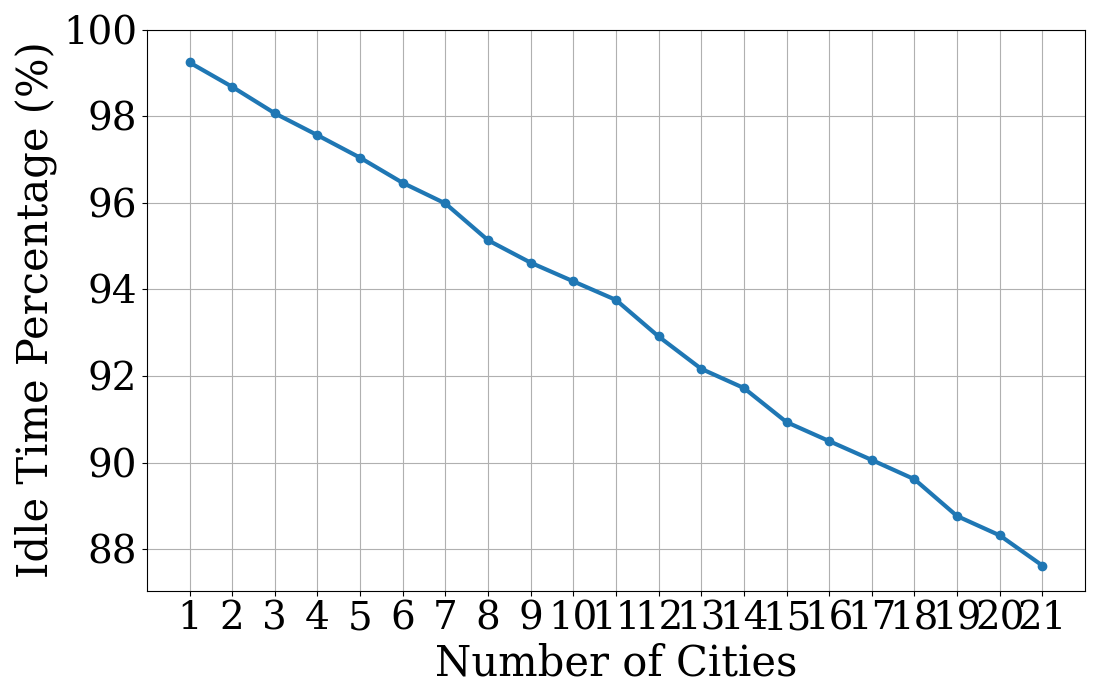
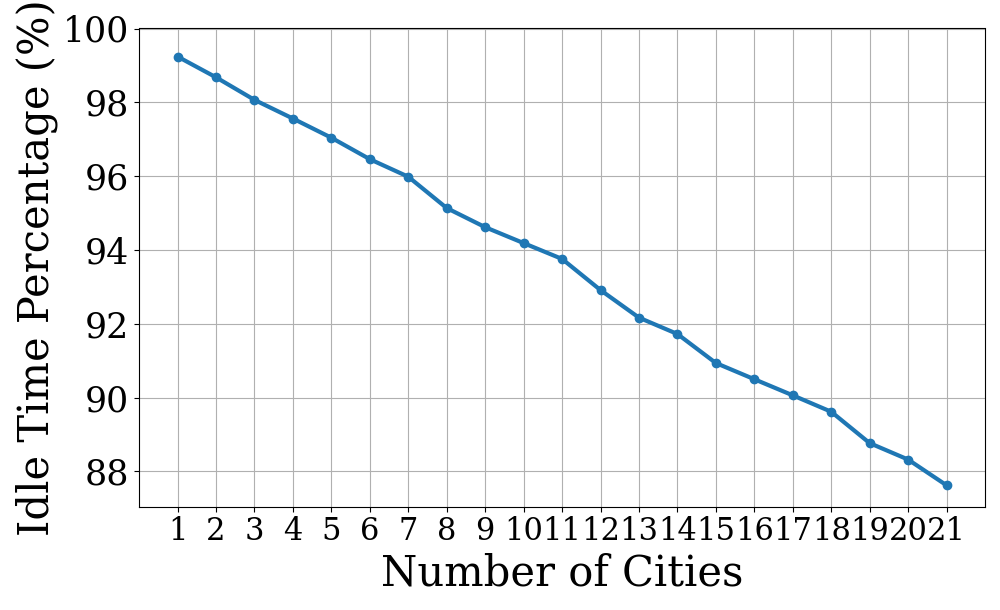
change plots for paper

Changed region(s): [[0.0, 0.0, 0.992, 0.9656]]

diff --git a/Simulation_SY/plot_gap_duration_difference_plus1.py b/Simulation_SY/plot_gap_duration_difference_plus1.py
@@ -46,6 +46,12 @@ def analyze_file_shorter(folder_path, filename, population):
 
     return durations
 
+def format_duration(seconds):
+    hours = int(seconds // 3600)
+    minutes = int((seconds % 3600) // 60)
+    seconds = int(seconds % 60)
+    return f"{hours:02}:{minutes:02}:{seconds:02}"
+
 def format_minutes(minutes):
     hours = int(minutes // 60)
     minutes = int(minutes % 60)
@@ -87,9 +93,10 @@ def main():
 
     results = []
     errors = []
+    min_max_values = []
     colors = plot_config.experiment_colors[:len(files_info)]
     hatches = plot_config.hatches[:len(files_info)]
-    annotation_fontsize = plot_config.annotation_fontsize
+    annotation_fontsize = 24
 
     total_population = sum(population for _, population in ground_stations)
     num_cities = len(ground_stations)
@@ -105,30 +112,35 @@ def main():
         if total_durations:
             num_durations = len(total_durations)
             population_weighted_avg_diff = sum(total_durations) / (total_population * num_durations / num_cities)
-            std_deviation = np.std(total_durations) / total_population
+            min_difference = np.min(total_durations)
+            max_difference = np.max(total_durations)
             results.append(population_weighted_avg_diff)
-            errors.append(std_deviation)
-            print(f"Results for {label}: Avg={population_weighted_avg_diff}, Std Dev={std_deviation}")
+            errors.append([abs(population_weighted_avg_diff - min_difference / (total_population / num_cities)), 
+                           abs(max_difference / (total_population / num_cities) - population_weighted_avg_diff)])
+            min_max_values.append((min_difference, max_difference))
+            print(f"Results for {label}: Avg={population_weighted_avg_diff}, Min={min_difference}, Max={max_difference}")
         else:
             results.append(0)
-            errors.append(0)
+            errors.append([0, 0])
+            min_max_values.append((0, 0))
             print(f"No durations found for file prefix: {file_prefix}")
 
-    fig, ax = plt.subplots()
+    fig, ax = plt.subplots(figsize=(10,6))
     labels = [label for _, label in files_info]
-    bars = ax.bar(labels, results, yerr=errors, capsize=5, color=colors, hatch=hatches, width = 0.5)
-    ax.set_ylabel('Difference in Coverage \n (min)')
-    ax.set_xlabel('Base Number of Satellites (1, 100, 500)')
-    # ax.set_title('Average Time Difference From Original Gaps')
+    ax.bar(labels, results, yerr=np.array(errors).T, capsize=5, color=colors, hatch=hatches, width = 0.7)
+    ax.set_ylabel('Range of \n Coverage Increase \n (min)')
+    ax.set_xlabel('Base Number of Satellites + 1')
+    ax.set_ylim(0, 300) 
 
-    for bar in bars:
-        height = bar.get_height()
-        formatted_label = format_minutes(height)
-        # ax.text(bar.get_x() + bar.get_width() / 2, height + errors[bars.index(bar)], formatted_label, ha='center', va='bottom', fontsize=annotation_fontsize)
-
+    for i, (min_val, max_val) in enumerate(min_max_values):
+        bar = ax.patches[i]
+        bar_height = bar.get_height()
+        max_val_seconds = max_val / (total_population / num_cities) * 60 
+        formatted_label = f"Max: {format_duration(max_val_seconds)}"
+        ax.text(bar.get_x() + bar.get_width() / 2, bar_height + errors[i][1], formatted_label, ha='center', va='bottom', fontsize=annotation_fontsize)
+    
     plt.tight_layout()
     plt.savefig('plot_gap_duration_difference_plus1.png', dpi=300)
-    plt.show()
     print("Plot saved as 'plot_gap_duration_difference_plus1.png'")
 
 if __name__ == "__main__":

diff --git a/Simulation_SY/plot_gap_duration_difference_robustness_num.py b/Simulation_SY/plot_gap_duration_difference_robustness_num.py
@@ -41,14 +41,10 @@ def analyze_file_longer(folder_path, filename, population):
                     print(f"Error: Found a duration shorter than the original duration in file {filename}: {duration}")
                     continue
                 difference = duration - original_duration
-                weighted_difference = difference.total_seconds() * population
+                weighted_difference = difference.total_seconds() / 60 * population  # Convert seconds to minutes
                 durations.append(weighted_difference)
 
     return durations
-
-def format_percentage(value, total_time_seconds):
-    percentage = (value / total_time_seconds) * 100
-    return f"{percentage:.2f}%"
 
 def get_ground_stations():
     return [
@@ -80,9 +76,9 @@ def main():
     satellite_counts = ['200', '500', '1000', '2000']
 
     ground_stations = get_ground_stations()
-    total_time_seconds = 7 * 24 * 60 * 60  # Total time is 1 week in seconds
 
     results = []
+    errors = []
     colors = plot_config.experiment_colors[:len(satellite_counts)]
     hatches = plot_config.hatches[:len(satellite_counts)]
 
@@ -98,24 +94,31 @@ def main():
         if total_durations:
             num_durations = len(total_durations)
             population_weighted_avg_diff = sum(total_durations) / (total_population * num_durations / len(ground_stations))
-            population_weighted_avg_diff_percentage = (population_weighted_avg_diff / total_time_seconds) * 100
-            results.append(population_weighted_avg_diff_percentage)
-            print(f"Results for {count} satellites: Avg={population_weighted_avg_diff_percentage}%")
+            std_deviation = np.std(total_durations) / total_population
+            results.append(population_weighted_avg_diff)
+            errors.append(std_deviation)
         else:
             results.append(0)
+            errors.append(0)
             print(f"No durations found for satellite count {count}")
 
-    fig, ax = plt.subplots()
+    fig, ax = plt.subplots() 
     labels = satellite_counts
-    bars = ax.bar(labels, results, color=colors, hatch=hatches, width = 0.5)
+    bars = ax.bar(labels, results, yerr=errors, capsize=5, color=colors, hatch=hatches, width = 0.5)
     ax.set_xlabel('Total Number of Satellites \n (Half Denies Service)')
-    ax.set_ylabel('Difference in Coverage \n (%)')
-    plt.tight_layout()
-    
-    plt.xticks()
-    plt.savefig('plot_gap_duration_difference_robustness_num.png', dpi=300)
-    print("Plot saved as 'plot_gap_duration_difference_robustness_num.png'")
-    # plt.show()
+    ax.set_ylabel('Reduced Coverage \n (min)')
+    ax.set_ylim(0, 3000)
+    # ax.set_title('Avg. Time Difference from Original Gaps')
+    plt.tight_layout() 
+    for bar in bars:
+        height = bar.get_height()
+        percentage = (height / 10080) * 100 
+        formatted_label = f"{percentage:.2f}%"
+        ax.text(bar.get_x() + bar.get_width() * 0.5, height * 1.02, formatted_label, ha='center', va='bottom', fontsize=22)
 
+    plt.xticks()
+    plt.savefig('plot_gap_duration_difference_robustness_num.png', dpi=300) 
+    print("Plot saved as 'plot_gap_duration_difference_robustness_num.png'")
+    
 if __name__ == "__main__":
     main()

diff --git a/Simulation_SY/plot_gap_analysis_numcity.py b/Simulation_SY/plot_gap_analysis_numcity.py
@@ -60,7 +60,6 @@ def main():
             file_index = 10000 + i
             file_path = os.path.join(directory, f"output_numcity_{n}_gap_duration_analysis_{file_index}.txt")
             average_gap_duration = parse_gap_duration(file_path)
-            # print(f"Average gap duration for {file_path}: {average_gap_duration}")  
             total_gap_duration += average_gap_duration
         
         idle_percentage = calculate_idle_percentage(total_gap_duration, n, total_duration)
@@ -69,14 +68,14 @@ def main():
         print(f"Number of cities: {n}, Idle Percentage: {idle_percentage}")  
 
     # Plotting the data
-    plt.figure(figsize = (11,7))
+    plt.figure(figsize = (10,6.1))
     plt.plot(num_cities, idle_percentages, marker='o')
     plt.xlabel('Number of Cities')
     plt.ylabel('Idle Time Percentage (%)')
     plt.grid(True)
-    plt.xticks(range(1, max_cities + 1))
+    plt.xticks(range(1, max_cities + 1), fontsize = 22)
 
-    y_ticks = range(88, 101, 2)  # You can adjust this range as needed
+    y_ticks = range(88, 101, 2) 
     y_labels = [str(tick) for tick in y_ticks]
     plt.yticks(ticks=y_ticks, labels=y_labels)
     plt.tight_layout()

diff --git a/Simulation_SY/plot_gap_duration_difference_ablation.py b/Simulation_SY/plot_gap_duration_difference_ablation.py
@@ -121,13 +121,10 @@ def main():
     labels = [label for _, label in files_info]
     bars = ax.bar(labels, results, yerr=errors, capsize=5, color=colors, hatch=hatches, width = 0.5)
     ax.set_xlabel('Type of Satellite Added')
-    ax.set_ylabel('Difference in Coverage \n (min)')
+    ax.set_ylabel('Additional Coverage \n (min)')
     # ax.set_title('Average Time Difference From Original Gaps')
+    ax.set_ylim(0, 80)
 
-    for bar in bars:
-        height = bar.get_height()
-        formatted_label = format_minutes(height)
-        # ax.text(bar.get_x() + bar.get_width() * 0.9, height, formatted_label, ha='center', va='bottom', fontsize=annotation_fontsize)
     plt.tight_layout()
     plt.savefig('plot_gap_duration_difference_ablation.png', dpi=300)
     print("Plot saved as 'plot_gap_duration_difference_ablation.png'")

diff --git a/Simulation_SY/plot_gap_duration_difference_robustness_ratio.py b/Simulation_SY/plot_gap_duration_difference_robustness_ratio.py
@@ -117,10 +117,17 @@ def main():
 
     new_labels = [f"{label.split('_')[0]}:1..:1" for label in labels]
 
-    fig, ax = plt.subplots(figsize = (10,7))
+    fig, ax = plt.subplots()
     bars = ax.bar(new_labels, results, yerr=errors, capsize=5, color=colors, hatch=hatches)
-    ax.set_ylabel('Difference in Coverage \n (min)')
+    ax.set_ylabel('Reduced Coverage \n (min)')
     ax.set_xlabel('Ratio Between Different Parties')
+    ax.set_ylim(0, 700)
+
+    for bar in bars:
+        height = bar.get_height()
+        percentage = (height / 10080) * 100 
+        formatted_label = f"{percentage:.2f}%"
+        ax.text(bar.get_x() + bar.get_width() * 0.5, height * 1.02, formatted_label, ha='center', va='bottom', fontsize=plot_config.annotation_fontsize)
 
     plt.xticks(rotation=45, ha='right')
     plt.tight_layout()

diff --git a/Simulation_SY/plot_gap_duration_difference_plus1_phase.py b/Simulation_SY/plot_gap_duration_difference_plus1_phase.py
@@ -112,7 +112,7 @@ def main():
     plt.figure(figsize=(10, 6))
     plt.plot(satellite_numbers, weighted_avg_coverage_time_diff, marker='o', linestyle='-')
     plt.xlabel('Distance from Original Satellite (km)')
-    plt.ylabel('Difference in Coverage \n (min)')
+    plt.ylabel('Additional Coverage \n (min)')
     plt.grid(True)
     
     plt.tight_layout()

diff --git a/Simulation_SY/plot_config.py b/Simulation_SY/plot_config.py
@@ -13,7 +13,7 @@ figsize = (10, 6)
 tick_size = 25
 legend_size = 20
 alpha = 0.1
-annotation_fontsize = 15
+annotation_fontsize = 20
 
 plt.rcParams['axes.labelsize'] = xyfontsize
 plt.rcParams['xtick.labelsize'] = tick_size
